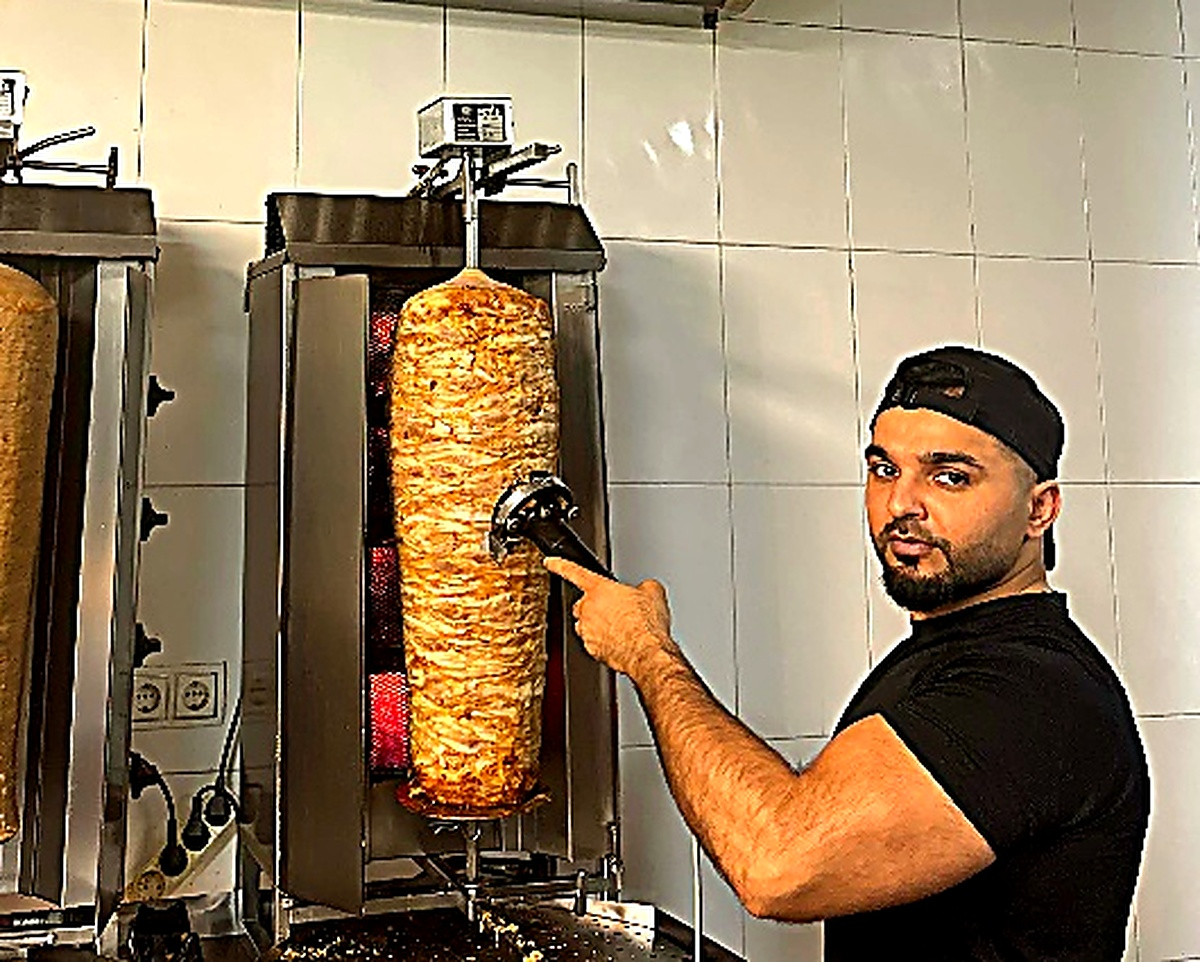
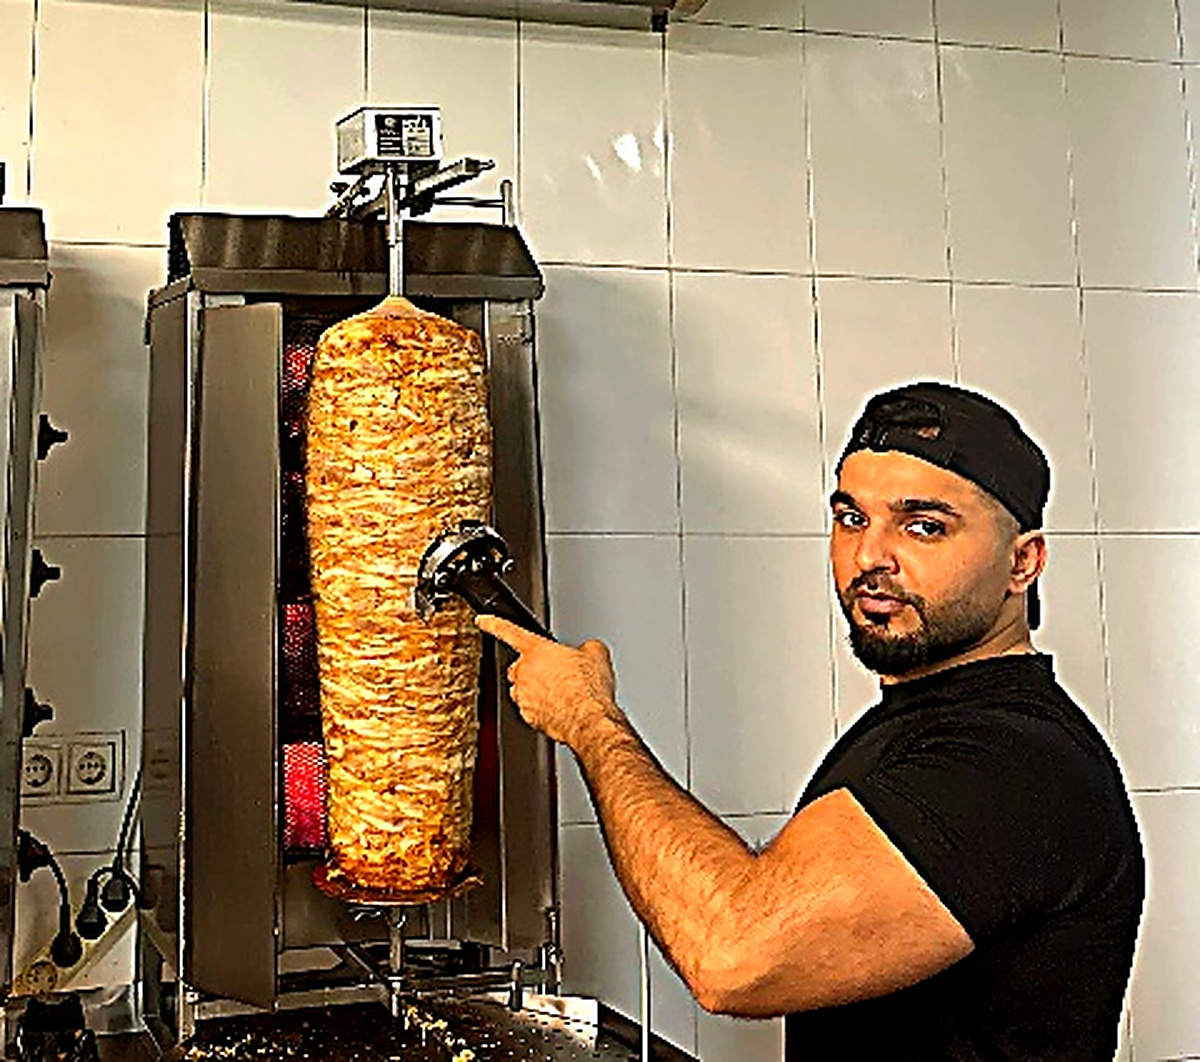
Centrado integral de la pagina principal en escritorio y movil con foto de kebab y dueno perfectamente balanceada y eliminacion del boton flotante lateral

diff --git a/sufi-callosa/index.html b/sufi-callosa/index.html
@@ -342,22 +342,19 @@
     /* ═══ HERO SECTION LUMINOSA ═══ */
     .hero {
       position: relative;
-      padding: 60px 0 72px;
+      padding: 52px 0 64px;
       overflow: hidden;
       background: radial-gradient(ellipse at 50% -10%, rgba(234, 88, 12, 0.08) 0%, transparent 60%);
+      text-align: center;
     }
 
     .hero-grid {
-      display: grid;
-      grid-template-columns: 1.15fr 0.85fr;
-      align-items: center;
-      gap: 48px;
-    }
-
-    .hero-content {
       display: flex;
       flex-direction: column;
-      align-items: flex-start;
+      align-items: center;
+      text-align: center;
+      max-width: 840px;
+      margin: 0 auto;
     }
 
     .hero-badge {
@@ -367,11 +364,11 @@
       background: var(--accent-emerald-bg);
       border: 1px solid #a7f3d0;
       color: var(--accent-emerald);
-      font-size: 0.82rem;
+      font-size: 0.84rem;
       font-weight: 700;
-      padding: 6px 14px;
+      padding: 6px 16px;
       border-radius: 50px;
-      margin-bottom: 20px;
+      margin: 0 auto 18px;
       letter-spacing: 0.02em;
     }
 
@@ -396,7 +393,8 @@
       line-height: 1.12;
       letter-spacing: -0.03em;
       color: var(--ink);
-      margin-bottom: 20px;
+      margin: 0 auto 16px;
+      text-align: center;
     }
 
     .hero-title .glow-word {
@@ -407,28 +405,60 @@
     }
 
     .hero-desc {
-      font-size: 1.05rem;
+      font-size: 1.08rem;
       line-height: 1.65;
       color: var(--ink-body);
-      margin-bottom: 32px;
-      max-width: 540px;
+      margin: 0 auto 28px;
+      max-width: 620px;
+      text-align: center;
     }
 
     .hero-ctas {
       display: flex;
       align-items: center;
-      gap: 14px;
-      margin-bottom: 40px;
+      justify-content: center;
+      gap: 16px;
+      margin: 0 auto 32px;
       width: 100%;
+    }
+
+    .hero-media {
+      width: 100%;
+      max-width: 720px;
+      margin: 0 auto 32px;
+      position: relative;
+    }
+
+    .hero-img-wrap {
+      border-radius: 24px;
+      overflow: hidden;
+      border: 1px solid var(--border);
+      box-shadow: 0 16px 40px -12px rgba(0, 0, 0, 0.14);
+      background: #f1f5f9;
+    }
+
+    .hero-img-wrap img {
+      width: 100%;
+      height: 420px;
+      object-fit: cover;
+      object-position: center center;
+      transition: transform 0.6s ease;
     }
 
     .hero-stats {
       display: flex;
       align-items: center;
-      gap: 28px;
+      justify-content: center;
+      gap: 40px;
       padding-top: 24px;
       border-top: 1px solid var(--border);
       width: 100%;
+      max-width: 600px;
+      margin: 0 auto;
+    }
+
+    .stat-box {
+      text-align: center;
     }
 
     .stat-box strong {
@@ -450,26 +480,6 @@
       display: block;
     }
 
-    .hero-media {
-      position: relative;
-    }
-
-    .hero-img-wrap {
-      border-radius: 24px;
-      overflow: hidden;
-      border: 1px solid var(--border);
-      box-shadow: var(--shadow-lg);
-      position: relative;
-      background: #f1f5f9;
-    }
-
-    .hero-img-wrap img {
-      width: 100%;
-      height: 430px;
-      object-fit: cover;
-      object-position: center center;
-      transition: transform 0.6s ease;
-    }
 
     /* ═══ SECCIÓN HIGHLIGHTS ═══ */
     .section-highlights {
@@ -1319,26 +1329,7 @@
 
     /* Botón FAB para desktop */
     .fab-call {
-      position: fixed;
-      bottom: 28px;
-      right: 28px;
-      z-index: 90;
-      width: 58px;
-      height: 58px;
-      border-radius: 50%;
-      background: var(--accent-gradient);
-      color: #ffffff;
-      display: flex;
-      align-items: center;
-      justify-content: center;
-      box-shadow: 0 8px 24px var(--accent-glow);
-      border: 2px solid #ffffff;
-      transition: var(--transition);
-    }
-
-    .fab-call:hover {
-      transform: scale(1.1);
-      box-shadow: 0 12px 32px rgba(234, 88, 12, 0.4);
+      display: none !important;
     }
 
     /* ═══ MODALES (LEGAL & LIGHTBOX) ═══ */
@@ -1928,44 +1919,42 @@
     <!-- HERO -->
     <section class="hero" id="inicio">
       <div class="container hero-grid">
-        <div class="hero-content">
-          <div class="hero-badge">
-            <span class="dot"></span>
-            Abierto Hoy · C. Hermanos Parra, 10
-          </div>
-          <h2 class="hero-title">
-            El auténtico Kebab <br>
-            <span class="glow-word">recién cortado.</span>
-          </h2>
-          <p class="hero-desc">
-            Carne 100% Halal marinada a diario y laminada directamente del asador. Dürüm crujiente, Pan Pita artesano, platos generosos con arroz basmati o patatas y salsas caseras irresistibles.
-          </p>
-          <div class="hero-ctas">
-            <a href="tel:865758511" class="btn btn-primary">
-              <svg width="17" height="17" viewBox="0 0 24 24" fill="none" stroke="currentColor" stroke-width="2" stroke-linecap="round" stroke-linejoin="round"><path d="M22 16.92v3a2 2 0 0 1-2.18 2 19.79 19.79 0 0 1-8.63-3.07 19.5 19.5 0 0 1-6-6 19.79 19.79 0 0 1-3.07-8.67A2 2 0 0 1 4.11 2h3a2 2 0 0 1 2 1.72 12.84 12.84 0 0 0 .7 2.81 2 2 0 0 1-.45 2.11L8.09 9.91a16 16 0 0 0 6 6l1.27-1.27a2 2 0 0 1 2.11-.45 12.84 12.84 0 0 0 2.81.7A2 2 0 0 1 22 16.92z"/></svg> Llamar para Pedir (865 75 85 11)
-            </a>
-            <a href="#carta" class="btn btn-outline">
-              <svg width="17" height="17" viewBox="0 0 24 24" fill="none" stroke="currentColor" stroke-width="2" stroke-linecap="round" stroke-linejoin="round"><path d="M4 19.5A2.5 2.5 0 0 1 6.5 17H20"/><path d="M6.5 2H20v20H6.5A2.5 2.5 0 0 1 4 19.5v-15A2.5 2.5 0 0 1 6.5 2z"/></svg> Ver la Carta Completa
-            </a>
-          </div>
-          <div class="hero-stats">
-            <div class="stat-box">
-              <strong>5.0 ★</strong>
-              <span>Google Maps (21 reseñas)</span>
-            </div>
-            <div class="stat-box">
-              <strong>100%</strong>
-              <span>Carne Halal Certificada</span>
-            </div>
-            <div class="stat-box">
-              <strong>10-15m</strong>
-              <span>Preparación al Momento</span>
-            </div>
-          </div>
+        <div class="hero-badge">
+          <span class="dot"></span>
+          Abierto Hoy · C. Hermanos Parra, 10
+        </div>
+        <h2 class="hero-title">
+          El auténtico Kebab <br>
+          <span class="glow-word">recién cortado.</span>
+        </h2>
+        <p class="hero-desc">
+          Carne 100% Halal marinada a diario y laminada directamente del asador. Dürüm crujiente, Pan Pita artesano, platos generosos con arroz basmati o patatas y salsas caseras irresistibles.
+        </p>
+        <div class="hero-ctas">
+          <a href="tel:865758511" class="btn btn-primary">
+            <svg width="17" height="17" viewBox="0 0 24 24" fill="none" stroke="currentColor" stroke-width="2" stroke-linecap="round" stroke-linejoin="round"><path d="M22 16.92v3a2 2 0 0 1-2.18 2 19.79 19.79 0 0 1-8.63-3.07 19.5 19.5 0 0 1-6-6 19.79 19.79 0 0 1-3.07-8.67A2 2 0 0 1 4.11 2h3a2 2 0 0 1 2 1.72 12.84 12.84 0 0 0 .7 2.81 2 2 0 0 1-.45 2.11L8.09 9.91a16 16 0 0 0 6 6l1.27-1.27a2 2 0 0 1 2.11-.45 12.84 12.84 0 0 0 2.81.7A2 2 0 0 1 22 16.92z"/></svg> Llamar para Pedir (865 75 85 11)
+          </a>
+          <a href="#carta" class="btn btn-outline">
+            <svg width="17" height="17" viewBox="0 0 24 24" fill="none" stroke="currentColor" stroke-width="2" stroke-linecap="round" stroke-linejoin="round"><path d="M4 19.5A2.5 2.5 0 0 1 6.5 17H20"/><path d="M6.5 2H20v20H6.5A2.5 2.5 0 0 1 4 19.5v-15A2.5 2.5 0 0 1 6.5 2z"/></svg> Ver la Carta Completa
+          </a>
         </div>
         <div class="hero-media">
           <div class="hero-img-wrap">
-            <img src="./img/hero.jpg?v=3" alt="El dueño de Süfí Kebab cortando el auténtico kebab en el asador en Callosa de Segura" loading="eager">
+            <img src="./img/hero.jpg?v=5" alt="El dueño de Süfí Kebab cortando el auténtico kebab en el asador en Callosa de Segura" loading="eager">
+          </div>
+        </div>
+        <div class="hero-stats">
+          <div class="stat-box">
+            <strong>5.0 ★</strong>
+            <span>Google Maps (21 reseñas)</span>
+          </div>
+          <div class="stat-box">
+            <strong>100%</strong>
+            <span>Carne Halal Certificada</span>
+          </div>
+          <div class="stat-box">
+            <strong>10-15m</strong>
+            <span>Preparación al Momento</span>
           </div>
         </div>
       </div>
